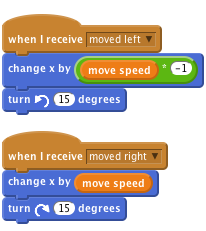
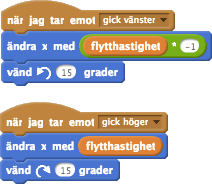
sv-SE_translations: Translated the wheels scratch card to swedish.

diff --git a/sv-SE/02_scratch/01/01-07 Make a Monster - Wheels.html b/sv-SE/02_scratch/01/01-07 Make a Monster - Wheels.html
@@ -1,0 +1,61 @@
+<!DOCTYPE html>
+<html class="world" lang="sv-SE">
+<head>
+    <meta charset="utf-8">
+    <meta name="viewport" content="width=device-width, initial-scale=1.0">
+
+    <meta name="google-site-verification" content="LAa8xdL-G6vOe9RSZnECSduS5m1BMiM8U2erQku5yIE" />
+
+    <title>Monsterfördjupningskort - Hjul — Code Club World Projects</title>
+
+    <!--[if lt IE 9]><script src="http://html5shim.googlecode.com/svn/trunk/html5.js"></script><![endif]-->
+
+    <link rel="stylesheet" href="../../../css/master.min.css">
+  </head>
+
+  <body class="index-template world">
+    <header class="header" role="banner">
+      <a class="home-link" href="../../../index.html"><img alt="" class="logo" height="100" src="../../../img/ccw_logo.png"></a>
+      <h1 class="title">Monsterfördjupningskort - Wheels</h1>
+      <span class="level-indicator">Nivå 4</span>
+    </header>
+
+    <nav class="breadcrumbs"><ul class="breadcrumbs-list"><li class="breadcrumbs-item"><a class="breadcrumbs-link" href="../../../index.html">Språk</a></li><li class="breadcrumbs-item"><a class="breadcrumbs-link" href="../../index.html">Svenska</a></li><li class="breadcrumbs-item"><a class="breadcrumbs-link" href="../index.html">Advancerad Scratch</a></li><li class="breadcrumbs-item current">Hjul</li></ul></nav>
+
+    <main class="main lesson-steps" role="main">
+<section id="activity-checklist" class="level2 check">
+<h2>Checklista</h2>
+<ul>
+<li><p>För att få det att se ut som att hjulet rör sig, så vill vi <strong>rotera</strong> och flytta spriten lite granna när vi tar emot ett <strong>gick meddelande</strong>.</p>
+<p><img src="fc48bcd5c68c311b4c0555580f0865c139b13640.png" alt="när jag tar emot[gick vänster]
+    ändra x med ((flytthastighet) * (-1))
+    vänd motsols (15) grader
+
+när jag tar emot[gick right v]
+    ändra x med (flytthastighet)
+    vänd medsols (15) grader" /></p></li>
+<li><p>Om du vill, så kan du ersätta alla värden med variabler som <code class="blockorange">flytthastighet</code>, så kan du kontrollera hastigheten i alla riktningar från ett ställe.</p></li>
+</ul>
+<p><strong>(Såg du hur vi multiplicerar flytthastighet med -1 för att få dess negativa värde?)</strong></p>
+</section>
+    </main>
+
+    <aside class="legal-notice copyright">
+      <p>These projects are for use outside the UK only. More information is available on our website at <a href="http://www.codeclub.org.uk/">http://www.codeclub.org.uk/</a>. This coursework is developed in the open on GitHub (<a href="https://github.com/CodeClub/">https://github.com/CodeClub</a>), come and join us!</p>
+      <p>&copy; 2014 Code Club. This work is licensed under a <a rel="license" href="http://creativecommons.org/licenses/by-nc-sa/4.0/">BY-NC-SA 4.0 International License</a>.</p>
+    </aside>
+
+    <!-- Google Analytics -->
+    <script type="text/javascript">
+      var _gaq = _gaq || [];
+      _gaq.push(['_setAccount', 'UA-30750176-5']);
+      _gaq.push(['_setDomainName', 'projects.codeclubworld.org']);
+      _gaq.push(['_trackPageview']);
+      (function() {
+        var ga = document.createElement('script'); ga.type = 'text/javascript'; ga.async = true;
+        ga.src = ('https:' == document.location.protocol ? 'https://ssl' : 'http://www') + '.google-analytics.com/ga.js';
+        var s = document.getElementsByTagName('script')[0]; s.parentNode.insertBefore(ga, s);
+      })();
+    </script>
+  </body>
+</html>
